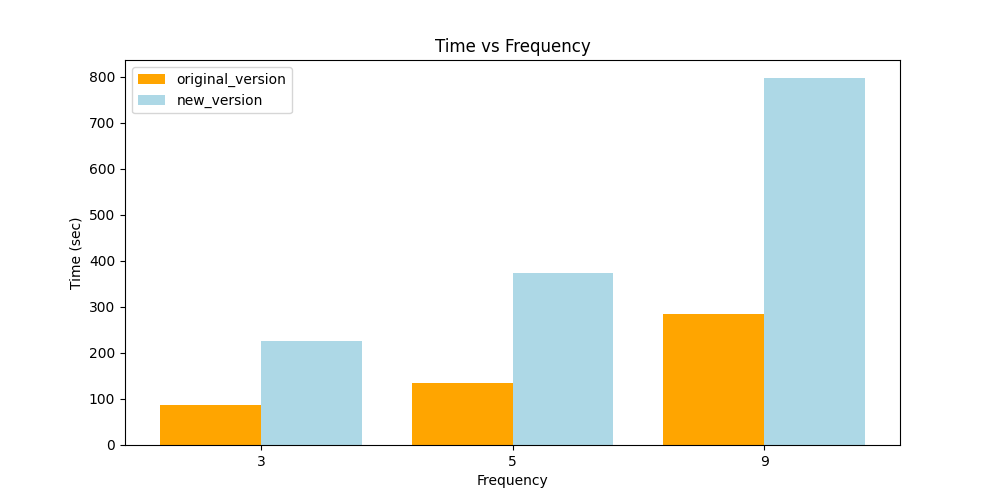
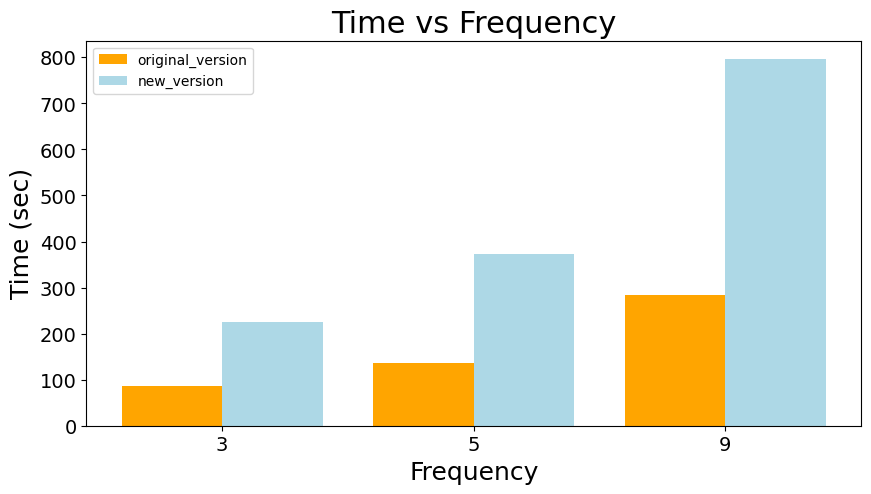
fixing font size on plot

diff --git a/notebooks/measurement.py b/notebooks/measurement.py
@@ -8,6 +8,8 @@ import geopandas as gpd
 import pandas as pd
 import matplotlib.dates as mdates
 import json
+from collections import OrderedDict
+from numpy import median
 
 DIR = Path('..')
 sys.path.insert(0, str(DIR))
@@ -63,15 +65,29 @@ def draw_area_times(times, areas, data_path):
         print(f'min value: {min(areas[key])}')
         results['min coverage'].append(min(areas[key]))
         results['max coverage'].append(max(areas[key]))
-        results['label'].append(key)
+        results['median coverage'].append(median(areas[key]))
         print(f'max value: {max(areas[key])}')
-        ax.plot(times, areas[key], label = key)
+        geoloctor = Nominatim(user_agent="reverse_user")
+        info = geoloctor.reverse(key[1:-1]).raw
+        if info != None:
+            info = info['address']
+            addr = ''
+            for index, addrkey in enumerate(info):
+                if index > 1:
+                    break
+                addr += " " + info[addrkey]
+        else:
+            addr = key
+        ax.plot(times, areas[key], label = addr)
+        results['label'].append(key)
     
-    plt.xlabel('times')
-    plt.ylabel('area')
-    plt.title('area vs times')
+    plt.xticks(fontsize=14)
+    plt.yticks(fontsize=14)
+    plt.xlabel('Time', fontsize=18)
+    plt.ylabel("Area coverage "+ r'$(km^2)$', fontsize=18)
+    plt.title('Area Coverage vs Time')
     plt.legend()
-    plt.savefig(data_path+'graph2.png')
+    plt.savefig('mearsurement_plot.png')
 
 def run(start_times, DATA_PATH, OUT_PATH, ELAPSE_TIME, AVG_WALKING_SPEED, MAX_WALKING_MIN, START_POINTS, START_LOCATIONS, crs):
     global results
@@ -114,7 +130,8 @@ def main():
     results = {
         "label":[],
         "max coverage": [],
-        "min coverage": []
+        "min coverage": [],
+        "median coverage": []
     }
 
     print(f'{len(start_points_dict["high"])=}')
@@ -146,8 +163,10 @@ def main():
     # runs.append(run(start_times, DATA_PATH, OUT_PATH, ELAPSE_TIME, AVG_WALKING_SPEED, MAX_WALKING_MIN, START_POINTS, START_LOCATIONS, crs))
 
     # start_times = []
-    for day in ["monday", "tuesday", "wednesday", "thursday", "friday"]:
-        for start_time in range(7,23,6):
+    days = ["monday", "tuesday", "wednesday", "thursday", "friday"]
+    days = ["monday"]
+    for day in days:
+        for start_time in range(7,22,6):
             start_times.append('{} {:02}:{:02}:{:02}'.format(day, start_time, 0, 0))    
     runs.append(run(start_times, DATA_PATH, OUT_PATH, ELAPSE_TIME, AVG_WALKING_SPEED, MAX_WALKING_MIN, START_POINTS, START_LOCATIONS, crs))
     

diff --git a/notebooks/performace_grapher.py b/notebooks/performace_grapher.py
@@ -27,19 +27,20 @@ def graph(X,Y):
             width = 0.4, label="original_version")
     plt.bar(X_axis+0.2, Y2, color ='lightblue',
             width = 0.4, label="new_version")
-    plt.xticks(X_axis, X)
-    plt.xlabel("Frequency")
-    plt.ylabel("Time (sec)")
-    plt.title("Time vs Frequency")
+    plt.xticks(ticks=X_axis, labels=X, fontsize=14)
+    plt.yticks(fontsize=14)
+    plt.xlabel("Frequency", fontsize=18)
+    plt.ylabel("Time (sec)", fontsize=18)
+    plt.title("Time vs Frequency", fontsize=22)
     plt.legend()
-    plt.savefig("performance_graph_long_elapse.png")
+    plt.savefig("perf_short.png", bbox_inches="tight")
 
 # gets the x values, format: [x1, x2, x3...]
 # gets the y values, format: {'original_version':[y11,y12,y13...], 'new_version':[y21,y22,y23...]}
 def main():
     x = [3, 5, 9]
-    y = {'new_version':[225.83527493476868, 373.56403970718384, 796.3134660720825],
-         'original_version':[87.00426959991455, 135.68633890151978, 284.9673900604248]} 
+    y = {'new_version':[23.54348635673523, 17.449768543243408, 77.29141354560852],
+         'original_version':[26.363208770751953, 18.625696420669556, 75.41746616363525]} 
     graph(x,y)
 
 if __name__ == '__main__':

diff --git a/presentation/presentation.md b/presentation/presentation.md
@@ -6,7 +6,6 @@ fix: font size
 
 
 More on performance
-service number
 
 show service plot color based on services score
 
@@ -121,7 +120,7 @@ def get_score(area, banks=0, clinics=0, dentists=0, hospitals=0, supermarkets=0)
 ![alt text][madison_routes]
 * Above is the madison city routes 
   
-![alt text][madison_short]
+<!-- ![alt text][madison_short]
 * Above is the SCanalyzer result graph when given 30 min elapse time:
   * Time to run SCanalyzer: $79.7232$ `sec`
   * Max coverage of **a week**, unit: $km^2$
@@ -144,19 +143,19 @@ def get_score(area, banks=0, clinics=0, dentists=0, hospitals=0, supermarkets=0)
   * Min coverage of **a week**, unit: $km^2$
     * Olbrich Gardens: $3.7747$
     * The Nat: $0$
-    * 330 N Orchard St: $19.3963$
-***
+    * 330 N Orchard St: $19.3963$ -->
+<!-- ***
 * One interesting fact can be observed is that at **The Nat**, it seems like the bus coverage is relatively small
   ![alt text][madison_city_plot]
-* From the graph above we can see that **The Nat** does have a small bubble, which means a small coverage: 
+* From the graph above we can see that **The Nat** does have a small bubble, which means a small coverage:  -->
 
 * service graph:
   ![alt text][madison_service]
 
-* Routes with smallest service distance:
+<!-- * Routes with smallest service distance:
   ![alt text][madison_min_service_dist]
 * Routes with smallest service time:
-  ![alt text][madison_min_service_time]
+  ![alt text][madison_min_service_time] -->
 
 
 ### *St. Louis, Missouri*
